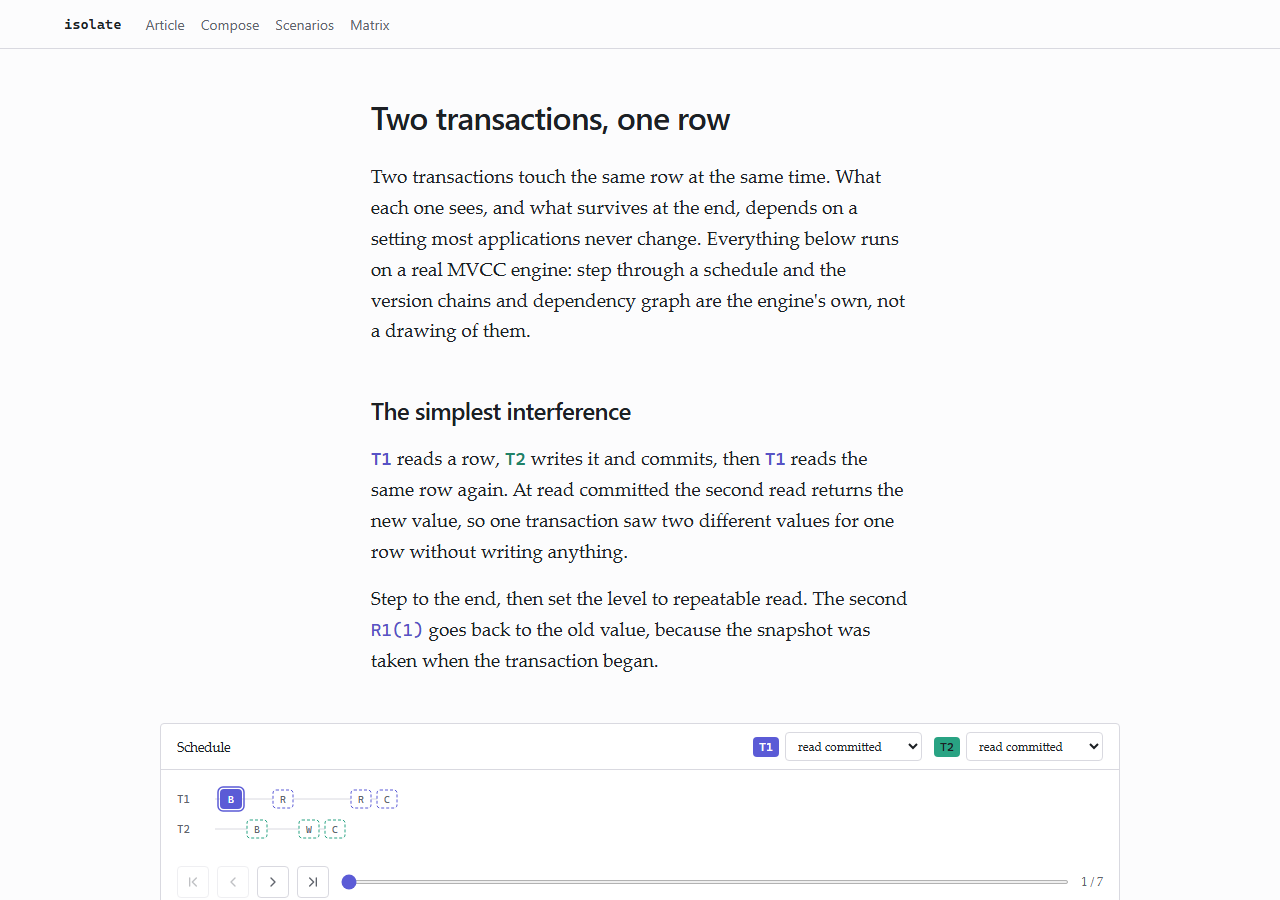
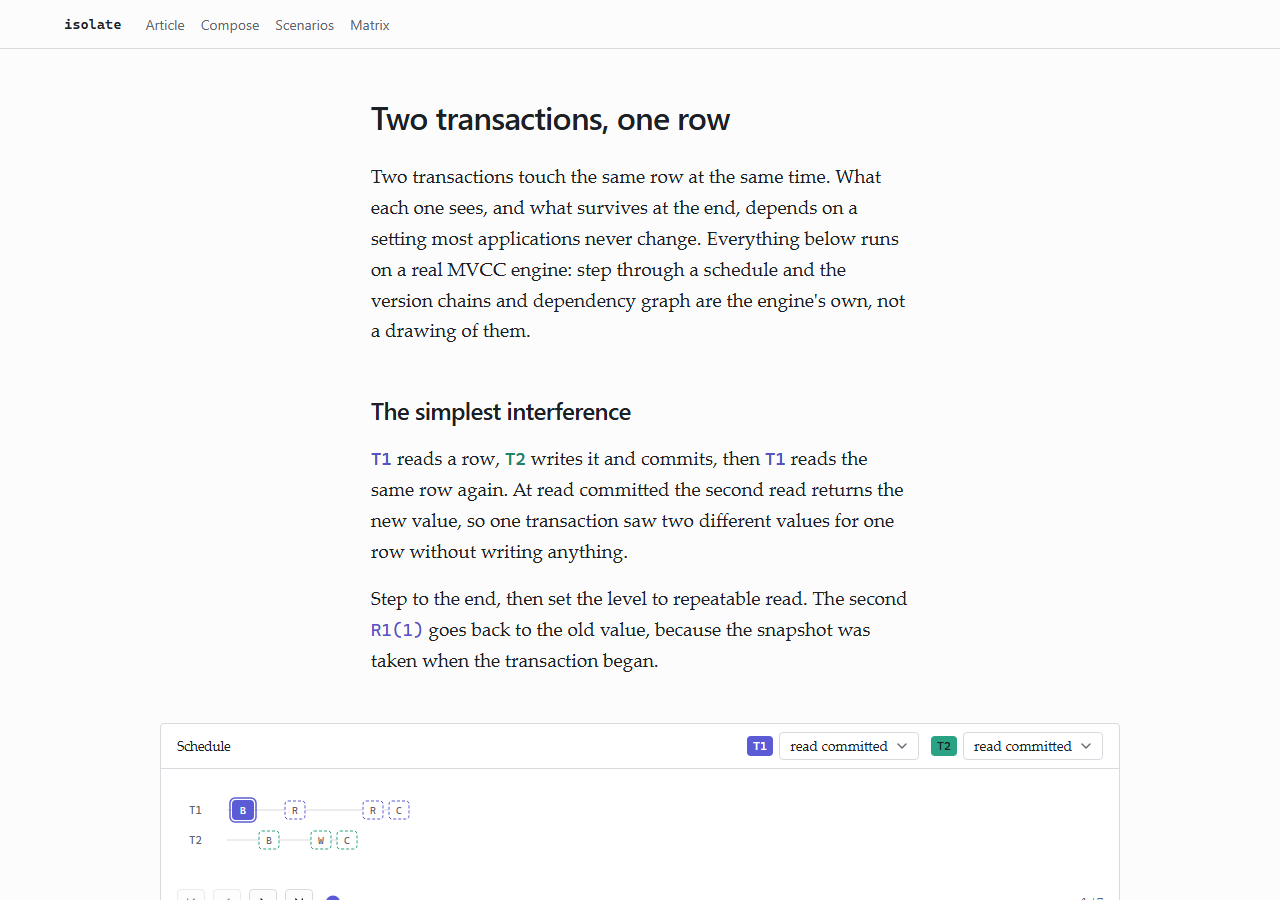
fix: name the hovered operation without the browser tooltip

diff --git a/frontend/src/components/timeline-panel.tsx b/frontend/src/components/timeline-panel.tsx
@@ -42,6 +42,23 @@ const TimelinePanel: FC<TimelinePanelProps> = ({ steps, index, onScrub }) => {
   const width = LEFT + Math.max(steps.length, 1) * MARK + 8;
   const height = txns.length * (LANE_HEIGHT + LANE_GAP) + 8;
 
+  const hovered = useMemo(() => {
+    if (active === null) return null;
+    const step = steps.find((s) => s.index === active);
+    if (!step) return null;
+    const lane = txns.indexOf(step.op.txn);
+    if (lane < 0) return null;
+    return {
+      x: LEFT + step.index * MARK,
+      y: lane * (LANE_HEIGHT + LANE_GAP) + 4,
+      label: opToken(step.op.kind, step.op.txn, step.op.key),
+    };
+  }, [active, steps, txns]);
+  // the current ring and the hover label are both drawn above the mark, so the canvas
+  // needs room for them. without this the first lane's ring clips against y=0 and the top
+  // of the mark looks sliced off
+  const PAD = 12;
+
   if (steps.length === 0) {
     return <p className="text-[var(--color-ink-soft)] text-sm">No operations yet.</p>;
   }
@@ -49,9 +66,9 @@ const TimelinePanel: FC<TimelinePanelProps> = ({ steps, index, onScrub }) => {
   return (
     <div className="overflow-x-auto">
       <svg
-        width={width}
-        height={height}
-        viewBox={`0 0 ${width} ${height}`}
+        width={width + PAD * 2}
+        height={height + PAD * 2}
+        viewBox={`${-PAD} ${-PAD} ${width + PAD * 2} ${height + PAD * 2}`}
         role="group"
         aria-label="Schedule timeline"
         data-testid="timeline"
@@ -127,29 +144,15 @@ const TimelinePanel: FC<TimelinePanelProps> = ({ steps, index, onScrub }) => {
                         }
                       }}
                     >
-                      <title>{opToken(step.op.kind, step.op.txn, step.op.key)}</title>
                       {/*
                         state is carried by form, not by opacity. a stroke faded to 0.5
                         against the dark ground measures about 1.9:1 and reads as missing.
                         past is filled, future is outlined, current gains a ring.
 
-                        hover and keyboard focus share one halo in the transaction's own
-                        hue. the browser outline is a hard box on the bounding box, which
-                        lands outside this rounded mark and fights the current ring.
+                        hover lifts the mark by 1px instead of drawing a second box around
+                        it. an outline sized to a 26px mark is nearly the mark, and beside
+                        the current ring the two read as one confused shape.
                       */}
-                      {active === step.index && (
-                        <rect
-                          x={x - 4}
-                          y={y - 4}
-                          width={MARK + 2}
-                          height={LANE_HEIGHT + 8}
-                          rx="6"
-                          fill="none"
-                          stroke={txnColor(txn)}
-                          strokeWidth="6"
-                          strokeOpacity="0.25"
-                        />
-                      )}
                       {current && (
                         <rect
                           x={x - 3}
@@ -164,7 +167,7 @@ const TimelinePanel: FC<TimelinePanelProps> = ({ steps, index, onScrub }) => {
                       )}
                       <rect
                         x={x}
-                        y={y}
+                        y={active === step.index ? y - 1 : y}
                         width={MARK - 6}
                         height={LANE_HEIGHT}
                         rx="3"
@@ -172,6 +175,7 @@ const TimelinePanel: FC<TimelinePanelProps> = ({ steps, index, onScrub }) => {
                         stroke={txnColor(txn)}
                         strokeWidth={current ? 2 : 1}
                         strokeDasharray={future ? "3 2" : undefined}
+                        className="[transition:y_100ms_ease-out]"
                       />
                       {blocked && (
                         <rect
@@ -211,6 +215,29 @@ const TimelinePanel: FC<TimelinePanelProps> = ({ steps, index, onScrub }) => {
             </g>
           );
         })}
+
+        {/*
+          The hovered operation, named. Drawn last so it sits over the lanes, and inside
+          the svg so it needs no positioning library. This replaces the native `title`
+          tooltip, which the browser draws in its own style after about a second.
+        */}
+        {hovered && (
+          <text
+            x={Math.min(hovered.x + (MARK - 6) / 2, width - 24)}
+            y={hovered.y - 6}
+            textAnchor="middle"
+            fontSize="10"
+            fontFamily="var(--font-mono)"
+            fill="var(--color-ink)"
+            paintOrder="stroke"
+            stroke="var(--color-card)"
+            strokeWidth="4"
+            strokeLinejoin="round"
+            className="pointer-events-none"
+          >
+            {hovered.label}
+          </text>
+        )}
       </svg>
     </div>
   );

diff --git a/frontend/e2e/states.spec.ts b/frontend/e2e/states.spec.ts
@@ -11,6 +11,19 @@ async function settle(page: Page) {
   await page.waitForTimeout(500);
 }
 
+/**
+ * Picks an option from a Base UI select. It is a button and a portalled listbox, not a
+ * native `select`, so `selectOption` does not apply to it.
+ */
+async function choose(page: Page, label: RegExp | string, option: string) {
+  const triggers = await page.getByLabel(label).all();
+  for (const trigger of triggers) {
+    await trigger.click();
+    await page.getByRole("option", { name: option, exact: true }).click();
+    await page.waitForTimeout(150);
+  }
+}
+
 /** Reads the properties a state change is allowed to move. */
 async function styleOf(target: Locator) {
   return target.evaluate((el) => {
@@ -20,6 +33,7 @@ async function styleOf(target: Locator) {
       color: s.color,
       cursor: s.cursor,
       opacity: s.opacity,
+      pointerEvents: s.pointerEvents,
       borderColor: s.borderTopColor,
     };
   });
@@ -57,7 +71,9 @@ test.describe("transport buttons", () => {
     await expect(prev).toBeDisabled();
     const disabled = await styleOf(prev);
     expect(Number(disabled.opacity)).toBeLessThan(1);
-    expect(disabled.cursor).toBe("not-allowed");
+    // base ui disables with pointer-events: none, so the cursor never resolves to
+    // not-allowed. the dimming plus the disabled attribute is what the reader gets
+    expect(disabled.pointerEvents).toBe("none");
   });
 });
 
@@ -86,7 +102,7 @@ test.describe("graph nodes", () => {
     expect(pressWidth).not.toBe(hoverWidth);
 
     // the effect, not the render: clicking a node re-reads the chain as that transaction
-    await expect(page.getByLabel("Read the chain as this transaction")).toHaveValue("2");
+    await expect(page.getByLabel("Read the chain as this transaction")).toContainText("T2");
     await expect(node).toHaveAttribute("aria-pressed", "true");
   });
 
@@ -99,7 +115,7 @@ test.describe("graph nodes", () => {
     const node = page.getByTestId("node-2");
     await node.focus();
     await page.keyboard.press("Enter");
-    await expect(page.getByLabel("Read the chain as this transaction")).toHaveValue("2");
+    await expect(page.getByLabel("Read the chain as this transaction")).toContainText("T2");
   });
 });
 
@@ -138,9 +154,7 @@ test.describe("editor", () => {
     await page.waitForTimeout(400);
     expect(await page.locator(".cycle-edge").count()).toBeGreaterThan(0);
 
-    for (const select of await page.getByLabel(/^Isolation level/).all()) {
-      await select.selectOption("serializable");
-    }
+    await choose(page, /^Isolation level/, "serializable");
     // the run restarts at step 1, so walk back to the end rather than clicking a button
     // that is already disabled there
     await page.waitForTimeout(900);

diff --git a/frontend/e2e/screenshots.spec.ts b/frontend/e2e/screenshots.spec.ts
@@ -32,8 +32,11 @@ test("workbench with a write skew cycle", async ({ page }) => {
 test("the same schedule at serializable", async ({ page }) => {
   await page.goto("/compose?scenario=G2-item");
   await settle(page);
-  for (const select of await page.getByLabel(/^Isolation level/).all()) {
-    await select.selectOption("serializable");
+  // a base ui select is a button and a portalled listbox, not a native `select`
+  for (const trigger of await page.getByLabel(/^Isolation level/).all()) {
+    await trigger.click();
+    await page.getByRole("option", { name: "serializable", exact: true }).click();
+    await page.waitForTimeout(150);
   }
   await page.waitForTimeout(700);
   await stepToEnd(page);
